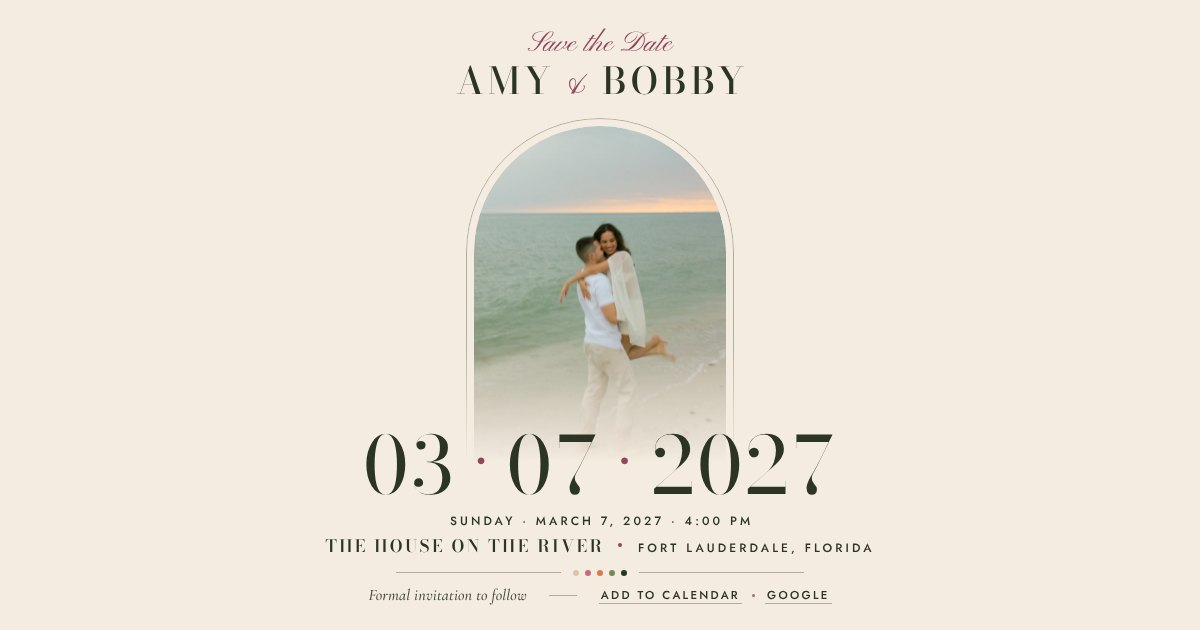
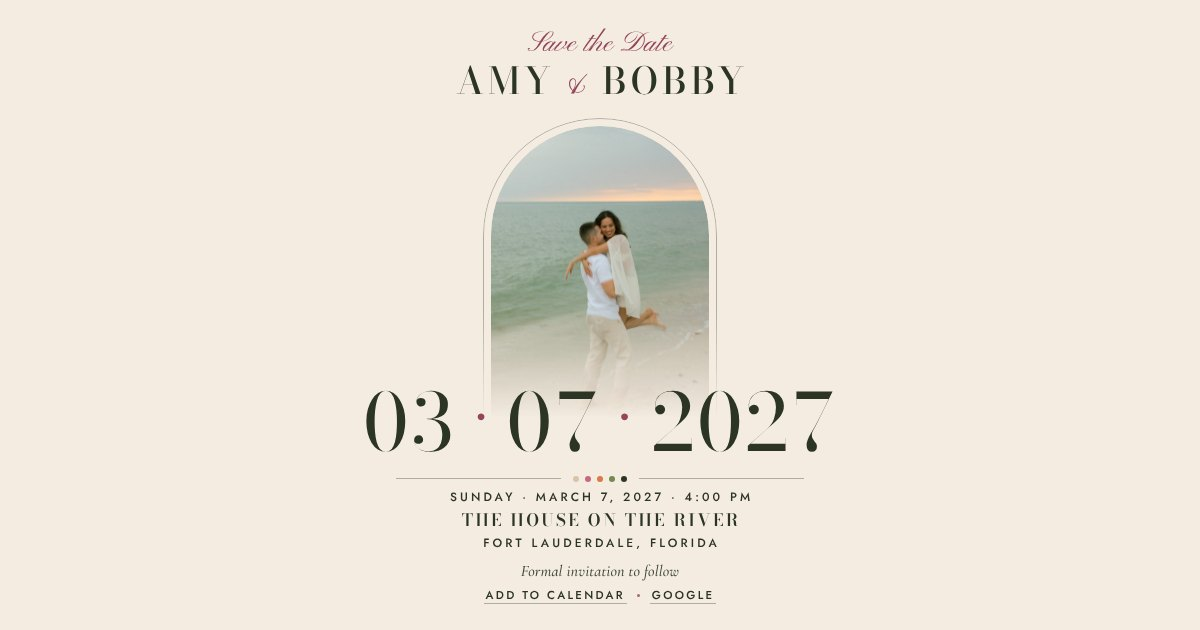
Floral: names under "Save the Date" on phones; stack desktop details
On phones, "Amy & Bobby" now sits on one line under the eyebrow (as on
desktop), with the date directly beneath the photo; the intro's petal
wreath forms around the date alone. On desktop the details stack the way
they do on phones: dots rule, date line, venue / region, then the note
above the calendar links.

Claude-Session: https://claude.ai/code/session_01M5uPph5NuzQmWXCWNt6CbL

diff --git a/floral.html b/floral.html
@@ -84,10 +84,10 @@ body{
   display:grid;justify-items:center;align-content:stretch;text-align:center;
   padding:var(--pad-t) var(--pad-x) var(--pad-b);
   grid-template-columns:minmax(0,1fr);
-  grid-template-rows:auto minmax(0,1fr) auto auto auto auto auto auto auto;
-  grid-template-areas:"eyebrow" "photo" "n1" "date" "n2" "rule" "when" "place" "foot";
+  grid-template-rows:auto auto minmax(0,1fr) auto auto auto auto auto;
+  grid-template-areas:"eyebrow" "names" "photo" "date" "rule" "when" "place" "foot";
 }
-.eyebrow{grid-area:eyebrow;font:400 var(--fs-script)/1.12 "Pinyon Script",cursive;color:var(--rose-ink);margin-bottom:calc(var(--g)*.7);letter-spacing:.01em}
+.eyebrow{grid-area:eyebrow;font:400 var(--fs-script)/1.12 "Pinyon Script",cursive;color:var(--rose-ink);margin-bottom:calc(var(--g)*.15);letter-spacing:.01em}
 
 .photo{grid-area:photo;width:100%;height:100%;min-height:0;container-type:size;display:flex;align-items:center;justify-content:center}
 .frame{position:relative;width:min(calc(100cqw - 18px), calc((100cqh - 9px) * .75));aspect-ratio:3/4}
@@ -95,18 +95,16 @@ body{
 .arch img{width:100%;height:100%;object-fit:cover;object-position:49% 38%;transform:scale(var(--zoom,1.12));transform-origin:49% 38%;display:block;transition:opacity .5s}
 .frame-line{position:absolute;inset:-8px -8px -8px;border:1px solid var(--rule);border-radius:9999px 9999px 0 0;pointer-events:none}
 
-.names{display:contents;font-weight:500}
+.names{grid-area:names;display:flex;align-items:baseline;justify-content:center;gap:.3em;margin:0 0 calc(var(--g)*1.3);font-weight:500}
 .n1,.n2{font:500 var(--fs-name)/1 "Bodoni Moda",Didot,"Bodoni 72",serif;font-variation-settings:"opsz" var(--opsz-name,28);text-transform:uppercase;letter-spacing:.11em;margin-right:-.11em;color:var(--olive)}
-.n1{grid-area:n1;margin-top:calc(var(--g)*1.5)}
-.n2{grid-area:n2}
-.amp{display:none}
+.amp{display:inline;font:400 calc(var(--fs-name)*1.12)/.8 "Pinyon Script",cursive;color:var(--rose-ink);letter-spacing:0;transform:translateY(.02em)}
 .sr{position:absolute;width:1px;height:1px;overflow:hidden;clip:rect(0 0 0 0);white-space:nowrap}
 
 .date{
   grid-area:date;font:400 var(--fs-date)/.86 "Bodoni Moda",Didot,"Bodoni 72",serif;color:var(--olive);
   font-variant-numeric:lining-nums tabular-nums;font-feature-settings:"lnum" 1,"tnum" 1;
   display:grid;grid-template-columns:auto auto auto;grid-template-areas:". dd ." "s1 mm s2" ". yy .";
-  align-items:center;justify-items:center;column-gap:.16em;margin:calc(var(--g)*.9) 0 calc(var(--g)*.75);
+  align-items:center;justify-items:center;column-gap:.16em;margin:calc(var(--g)*1.5) 0 calc(var(--g)*.75);
   letter-spacing:.01em;font-variation-settings:"opsz" 96;
 }
 .date .dd{grid-area:dd}.date .mm{grid-area:mm}.date .yy{grid-area:yy}
@@ -158,7 +156,7 @@ html.from-designs.done .back,html.from-designs.static .back{display:block}
     --pad-b:max(clamp(20px, 3.8svh, 52px), env(safe-area-inset-bottom));
   }
   .card{grid-template-rows:auto auto minmax(0,1fr) auto auto auto auto auto;
-    grid-template-areas:"eyebrow" "names" "photo" "date" "when" "place" "rule" "foot";}
+    grid-template-areas:"eyebrow" "names" "photo" "date" "rule" "when" "place" "foot";}
   .eyebrow{margin-bottom:0}
   .names{grid-area:names;display:flex;align-items:baseline;justify-content:center;gap:.3em;margin:calc(var(--g)*.2) 0 calc(var(--g)*2.3)}
   .n1,.n2{margin:0 -.11em 0 0}
@@ -170,19 +168,15 @@ html.from-designs.done .back,html.from-designs.static .back{display:block}
     margin:calc(var(--fs-date) * -.5) 0 calc(var(--g)*.6);position:relative;z-index:2}
   .date .sep{font-size:.7em;transform:translateY(-.05em)}
   .date .cc{display:inline}
-  .when{margin-top:calc(var(--g)*.2)}
-  .place{margin-top:calc(var(--g)*.7)}
-  .venue{display:inline}
-  .region{display:inline;margin:0}
-  .place .bul{display:inline-block;width:4px;height:4px;border-radius:50%;background:var(--rose-ink);margin:0 1em;vertical-align:.32em}
-  .rule{width:min(34vw, 420px);margin:calc(var(--g)*1.25) 0 calc(var(--g)*.95)}
-  .foot{flex-direction:row;gap:22px;margin-top:0}
-  .foot .note::after{content:"";display:inline-block;width:28px;height:1px;background:var(--rule);vertical-align:.3em;margin-left:22px}
+  .place{margin-top:calc(var(--g)*.6)}
+  .rule{width:min(34vw, 420px);margin:calc(var(--g)*.9) 0 calc(var(--g)*.8)}
+  .foot{margin-top:calc(var(--g)*1.1)}
 }
-@media (orientation:portrait){ .place .bul{display:none} .venue{letter-spacing:.06em;margin-right:-.06em;text-wrap:balance} .when{text-wrap:balance} }
+.place .bul{display:none}
+@media (orientation:portrait){ .venue{letter-spacing:.06em;margin-right:-.06em;text-wrap:balance} .when{text-wrap:balance} }
 @media (orientation:landscape) and (max-height:520px){
   .photo{display:none}
-  .card{grid-template-rows:none;grid-auto-rows:auto;align-content:center;grid-template-areas:"eyebrow" "names" "date" "when" "place" "rule" "foot"}
+  .card{grid-template-rows:none;grid-auto-rows:auto;align-content:center;grid-template-areas:"eyebrow" "names" "date" "rule" "when" "place" "foot"}
   .date{margin-top:0}
 }
 @media (max-width:359px){ .label{letter-spacing:.2em;margin-right:-.2em} }
@@ -787,7 +781,7 @@ function measure() {
   const arch = document.getElementById('arch').getBoundingClientRect();
   L.photo = arch.width > 4 && arch.height > 4 ? arch : null;
   L.landscape = isLandscape();
-  L.inkEls = L.landscape ? [document.getElementById('names')] : ['n1', 'date', 'n2'].map(id => document.getElementById(id));
+  L.inkEls = L.landscape ? [document.getElementById('names')] : [document.getElementById('date')];
   const rs = L.inkEls.map(el => el.getBoundingClientRect());
   const u = rs.reduce((a, r) => ({ l: Math.min(a.l, r.left), t: Math.min(a.t, r.top), r: Math.max(a.r, r.right), b: Math.max(a.b, r.bottom) }), { l: 1e9, t: 1e9, r: -1e9, b: -1e9 });
   L.ink = u;
